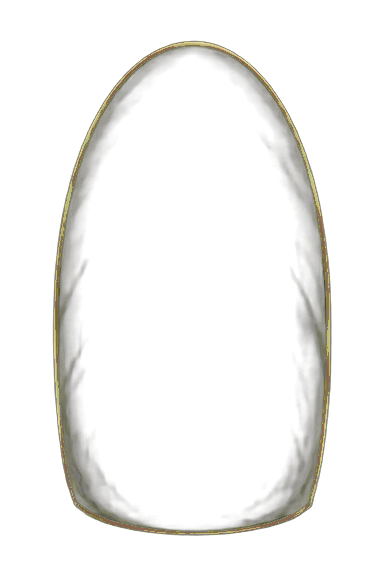
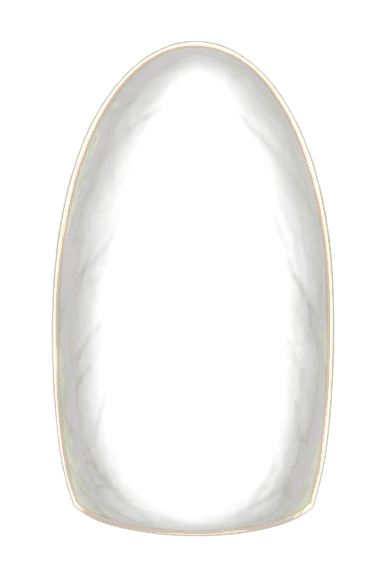
稳定战士护盾动画帧

Changed region(s): [[0.125, 0.0625, 0.875, 0.9375]]

diff --git a/questers_demo_v0.99.html b/questers_demo_v0.99.html
@@ -754,7 +754,7 @@
             animation:playerBuffVfx var(--player-buff-vfx-duration, 380ms) ease-out both;
         }
         .vfx-p-buff.vfx-buff-warrior-shield .player-buff-vfx-img {
-            filter:drop-shadow(0 0 24px rgba(94,205,255,0.9)) drop-shadow(0 0 14px rgba(255,221,91,0.7)) saturate(1.16) brightness(1.12);
+            filter:drop-shadow(0 0 18px rgba(122,105,82,0.5)) drop-shadow(0 0 10px rgba(214,143,62,0.35)) saturate(0.95) brightness(1.02);
         }
         .vfx-p-buff.vfx-buff-mage-chant .player-buff-vfx-img {
             filter:drop-shadow(0 0 24px rgba(183,96,255,0.9)) drop-shadow(0 0 14px rgba(82,220,255,0.58)) saturate(1.18) brightness(1.1);
